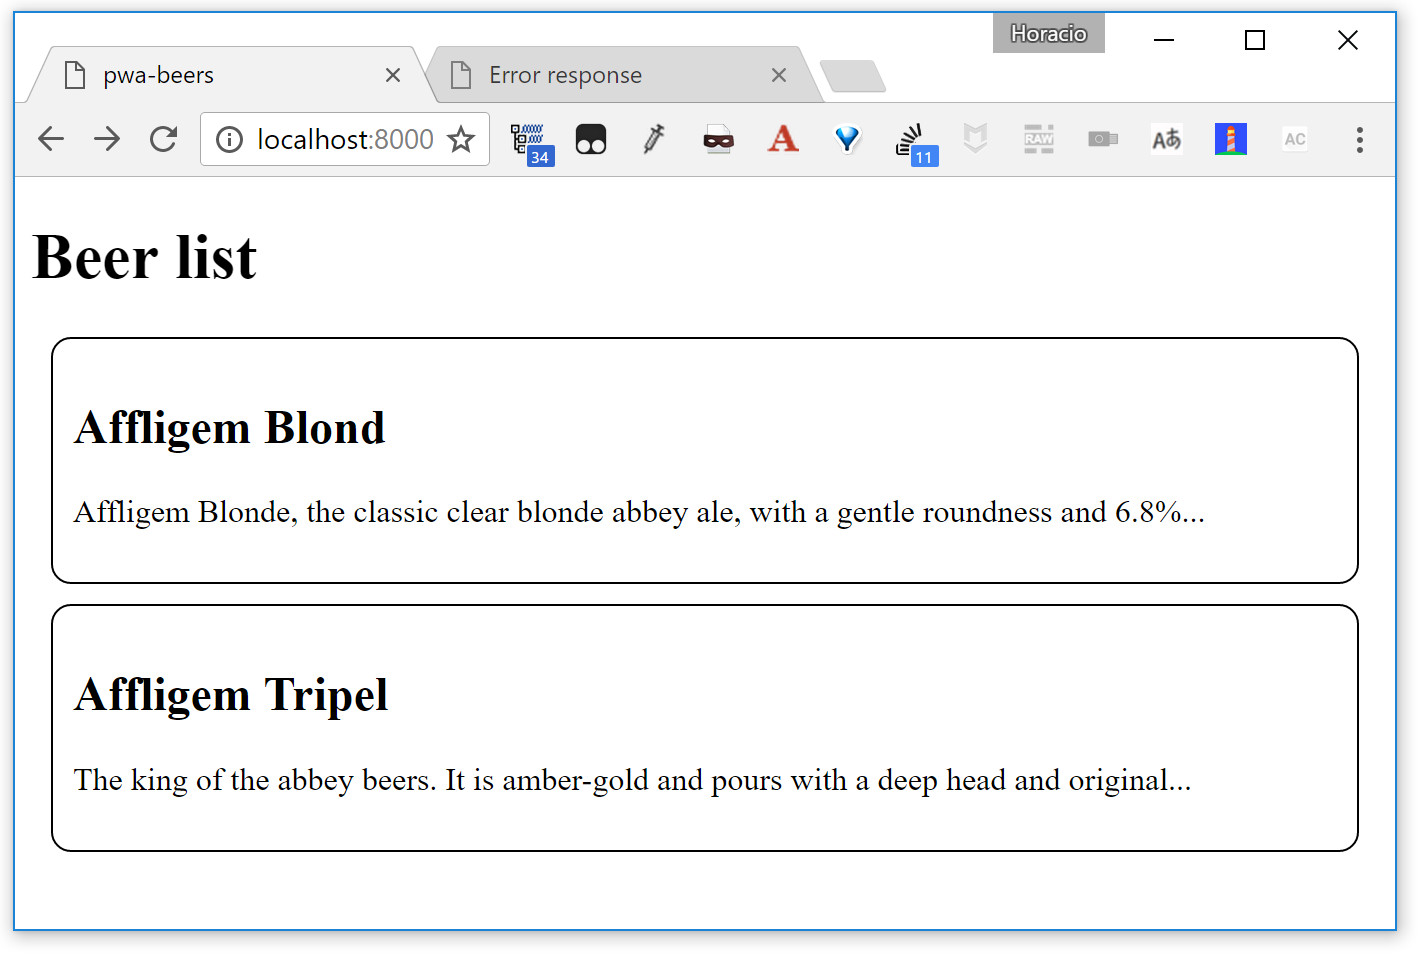
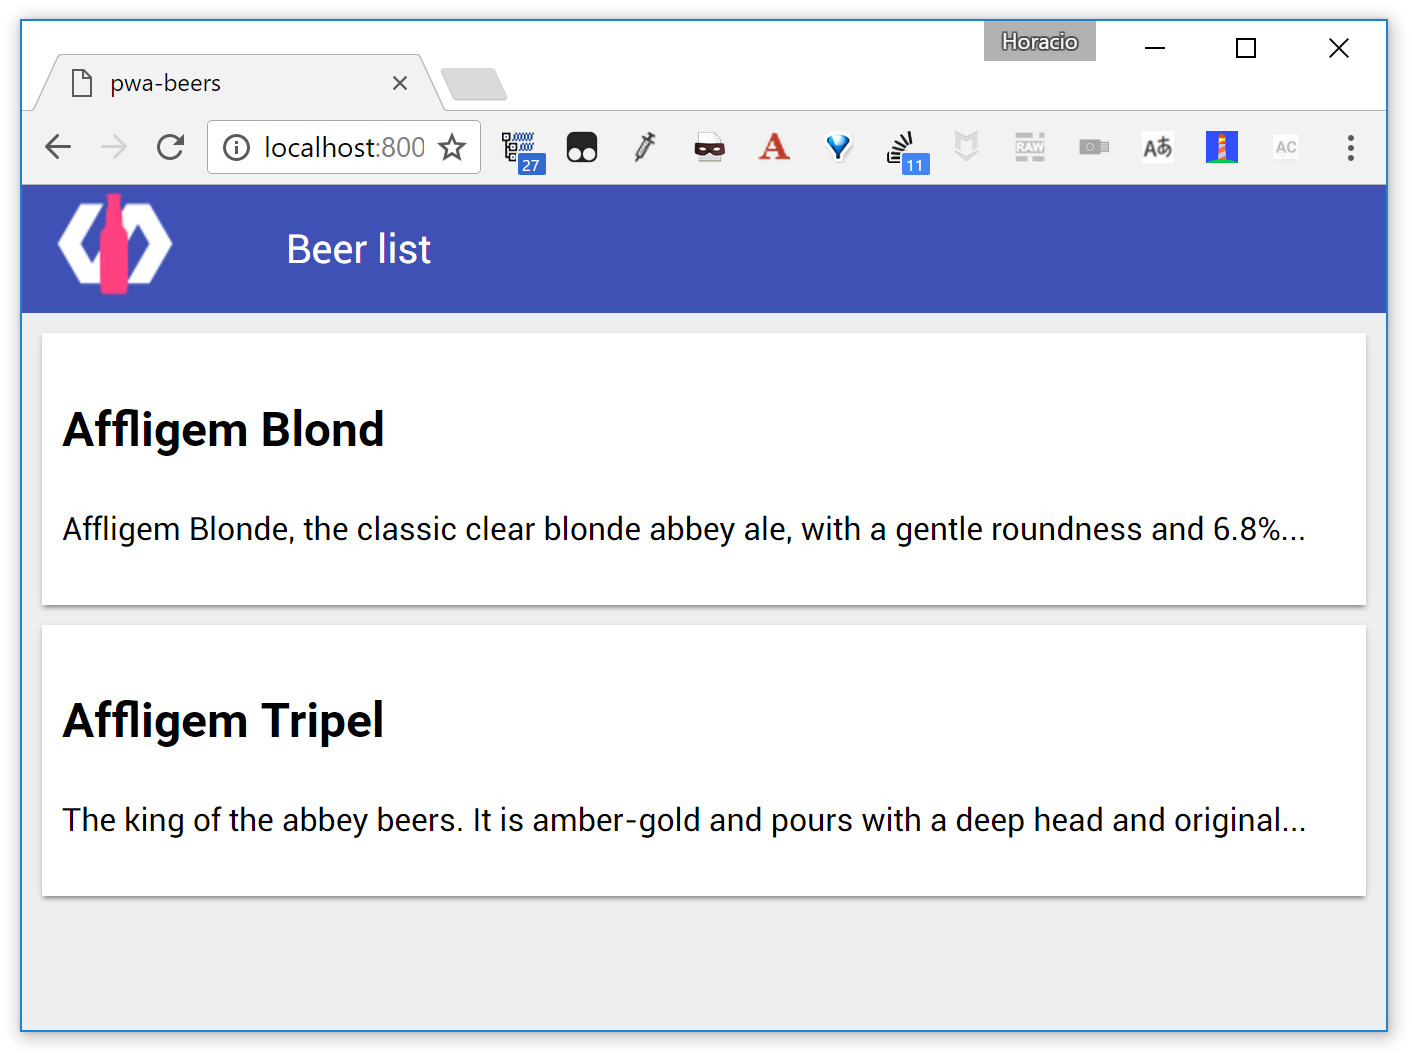
Material design

Changed region(s): [[0.0, 0.0, 0.9972, 1.0]]

diff --git a/step-02/src/pwa-app/pwa-app.html b/step-02/src/pwa-app/pwa-app.html
@@ -4,6 +4,9 @@
 <link rel="import" href="/bower_components/app-route/app-route.html">
 <link rel="import" href="/bower_components/iron-pages/iron-pages.html">
 
+
+<link rel="import" href="/bower_components/paper-toolbar/paper-toolbar.html">
+
 <link rel="import" href="../beer-list/beer-list-item.html">
 
 <dom-module id="pwa-app">
@@ -18,8 +21,11 @@
     <app-route route="{{route}}" pattern="/:page" data="{{routeData}}" tail="{{subroute}}"></app-route>
 
     <iron-pages selected="[[page]]" attr-for-selected="name" fallback-selection="lost">
-      <div name="main">
-        <h1>Beer list</h1>
+      <div name="list">
+        <paper-toolbar>
+          <div class="logo"><img src="/img/logo_bw-60px.png"></div>
+          <div class="title">Beer list</div>
+        </paper-toolbar>
         <beer-list-item
           name="Affligem Blond"
           description="Affligem Blonde, the classic clear blonde abbey ale, with a gentle roundness and 6.8%..."
@@ -29,7 +35,7 @@
           description="The king of the abbey beers. It is amber-gold and pours with a deep head and original..."
         ></beer-list-item>
       </div>
-      <div name="bye"><h1>Beer details</h1></div>
+      <div name="details"><h1>Beer details</h1></div>
       <div name="lost"><h1>It`s seem I'm lost...</h1></div>
     </iron-pages>
   </template>
@@ -57,7 +63,7 @@
       _routePageChanged: function(page) {
         console.debug("[pwa-app] _routePageChanged", page);
         if (!page) {
-          window.history.replaceState({}, null, "#/main");
+          window.history.replaceState({}, null, "#/list");
           window.dispatchEvent(new CustomEvent('location-changed'));
           return;
         }

diff --git a/step-02/src/beer-list/beer-list-item.html b/step-02/src/beer-list/beer-list-item.html
@@ -1,5 +1,7 @@
 <!-- Import Polymer library -->
 <link rel="import" href="/bower_components/polymer/polymer.html">
+<!-- Import paper-material -->
+<link rel="import" href="/bower_components/paper-material/paper-material.html">
 
 <dom-module id="beer-list-item">
   <template>
@@ -7,15 +9,14 @@
       .beer {
         margin: 10px;
         padding: 10px;
-        border: solid 1px black;
-        border-radius: 10px;
+        background-color: white;
         min-height: 50px;
       }
     </style>
-    <div class="beer">
+    <paper-material class="beer">
       <h2>{{name}}</h2>
       <p>{{description}}</p>
-    </div>
+    </paper-material>
   </template>
   <script>
     Polymer({

diff --git a/step-02/index.html b/step-02/index.html
@@ -13,6 +13,15 @@
     <script src="/bower_components/webcomponentsjs/webcomponents-lite.js"></script>
 
     <link rel="import" href="./src/pwa-app/pwa-app.html">
+
+    <style>
+      body {
+        margin: 0;
+        font-family: 'Roboto', 'Noto', sans-serif;
+        line-height: 1.5;
+        background-color: #eee;
+      }
+    </style>   
   </head>
   <body>
     <pwa-app></pwa-app>

diff --git a/step-01/index.html b/step-01/index.html
@@ -19,7 +19,6 @@
         margin: 0;
         font-family: 'Roboto', 'Noto', sans-serif;
         line-height: 1.5;
-        min-height: 100vh;
         background-color: #eee;
       }
     </style>    

diff --git a/step-02/README.md b/step-02/README.md
@@ -3,6 +3,57 @@
 In this step we are going to use our first Polymer element, a very simple custom `beer-list-item`.
 By using it you will see how easily you can add Polymer widgets to your normal web applications.
 
+## Material design
+
+We are going to give a [Material Design](https://material.io/guidelines/) look to our application, by using some of the Polymer [Paper Elements](https://elements.polymer-project.org/browse?package=paper-elements). We will be using [`paper-toolbar`](https://elements.polymer-project.org/elements/paper-toolbar) to add a main toolbar to the application, and [`paper-material`](https://elements.polymer-project.org/elements/paper-material) to add a paper card for each beer.
+
+We begin by adding `paper-toolbar` and `paper-material` to our dependencies:
+
+On `bower.json`:
+```json
+{
+  "name": "pwa-beers",
+  "description": "A tutorial on PWA with Polymer 1.x",
+  "main": "index.html",
+  "dependencies": {
+    "polymer": "Polymer/polymer#^1.4.0",
+    "app-route": "PolymerElements/app-route#^0.9.3",
+    "iron-pages": "PolymerElements/iron-pages#^1.0.8",
+    "iron-selector": "PolymerElements/iron-selector#^1.5.2",
+    "paper-toolbar": "PolymerElements/paper-toolbar#^1.1.7",
+    "paper-material": "PolymerElements/paper-material#^1.0.6"
+  },
+  "devDependencies": {
+    "iron-component-page": "PolymerElements/iron-component-page#^1.0.0",
+    "iron-demo-helpers": "PolymerElements/iron-demo-helpers#^1.0.0",
+    "web-component-tester": "^4.0.0",
+    "webcomponentsjs": "webcomponents/webcomponentsjs#^0.7.0"
+  }
+}
+```
+
+And in `./src/pwa-main/pwa-main.html` we import `paper-toolbar` :
+
+```HTML
+<link rel="import" href="/bower_components/paper-toolbar/paper-toolbar.html">
+```
+
+and then we replace the `h1` tags inside `iron-pages` by a `paper-toolbar`:
+
+```HTML
+<iron-pages selected="[[page]]" attr-for-selected="name" fallback-selection="lost">
+  <div name="list">
+    <paper-toolbar>
+      <div class="logo"><img src="/img/logo_bw-60px.png"></div>
+      <div class="title">Beer list</div>
+    </paper-toolbar>
+  </div>
+  <div name="details"><h1>Beer details</h1></div>
+  <div name="lost"><h1>It`s seem I'm lost...</h1></div>
+```
+
+
+
 
 ## The custom element
 
@@ -22,6 +73,9 @@ Our custom element is very simple at this step:
 ```html
 <!-- Import Polymer library -->
 <link rel="import" href="/bower_components/polymer/polymer.html">
+<!-- Import paper-material -->
+<link rel="import" href="/bower_components/paper-material/paper-material.html">
+
 
 <dom-module id="beer-list-item">
   <template>
@@ -29,15 +83,14 @@ Our custom element is very simple at this step:
       .beer {
         margin: 10px;
         padding: 10px;
-        border: solid 1px black;
-        border-radius: 10px;
+        background-color: white;
         min-height: 50px;
       }
     </style>
-    <div class="beer">
+    <paper-material class="beer">
       <h2>{{name}}</h2>
       <p>{{description}}</p>
-    </div>
+    </paper-material>
   </template>
   <script>
     Polymer({
